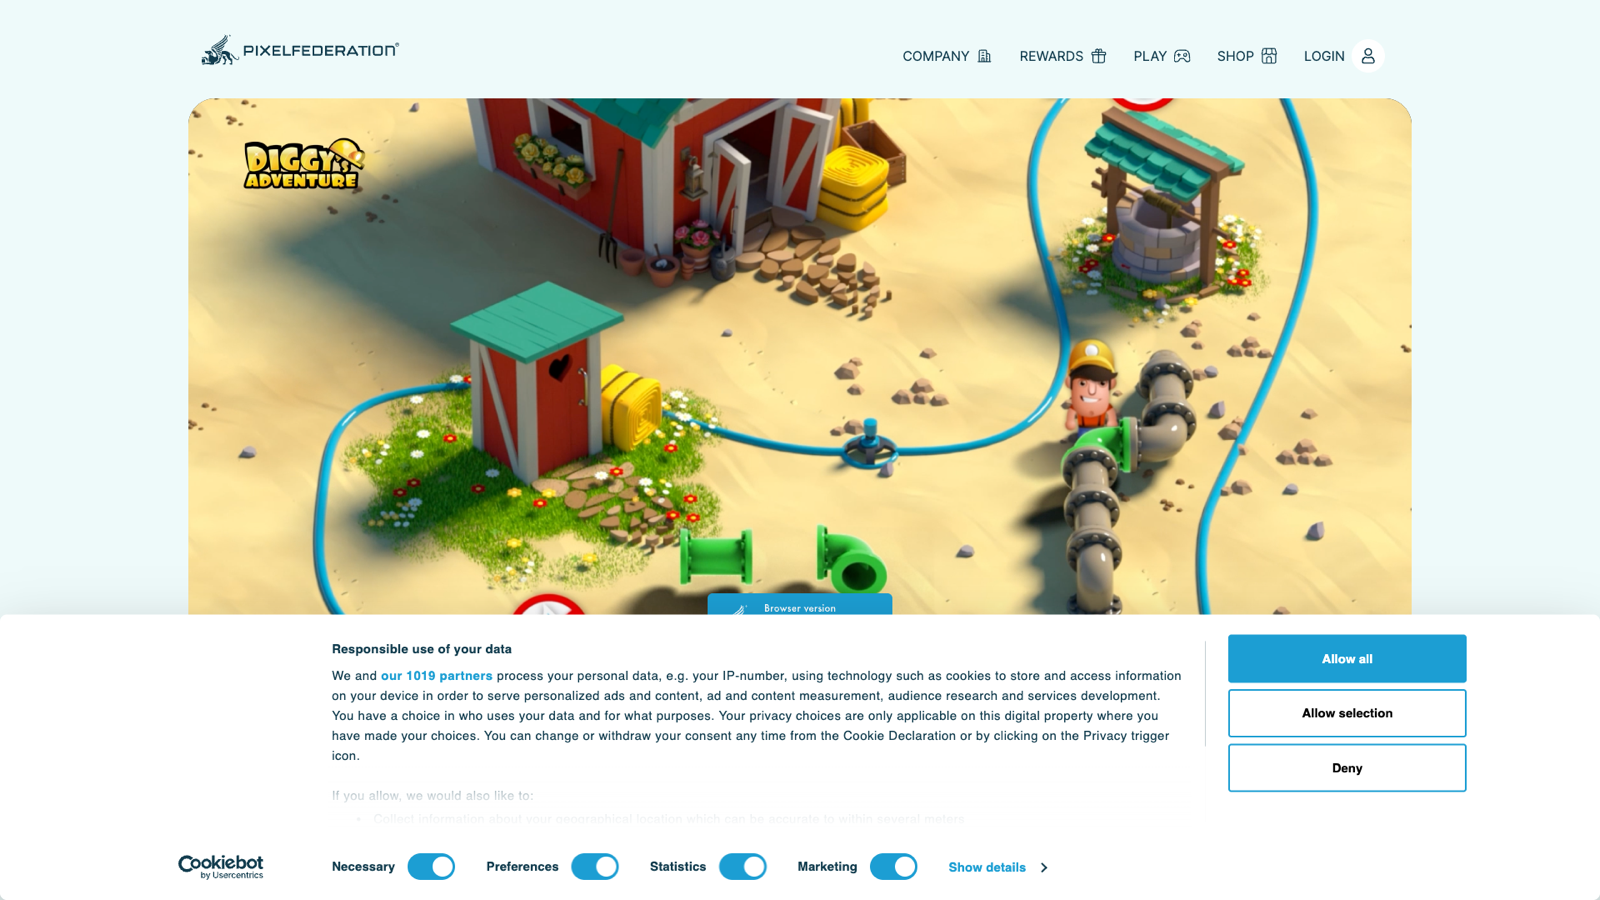
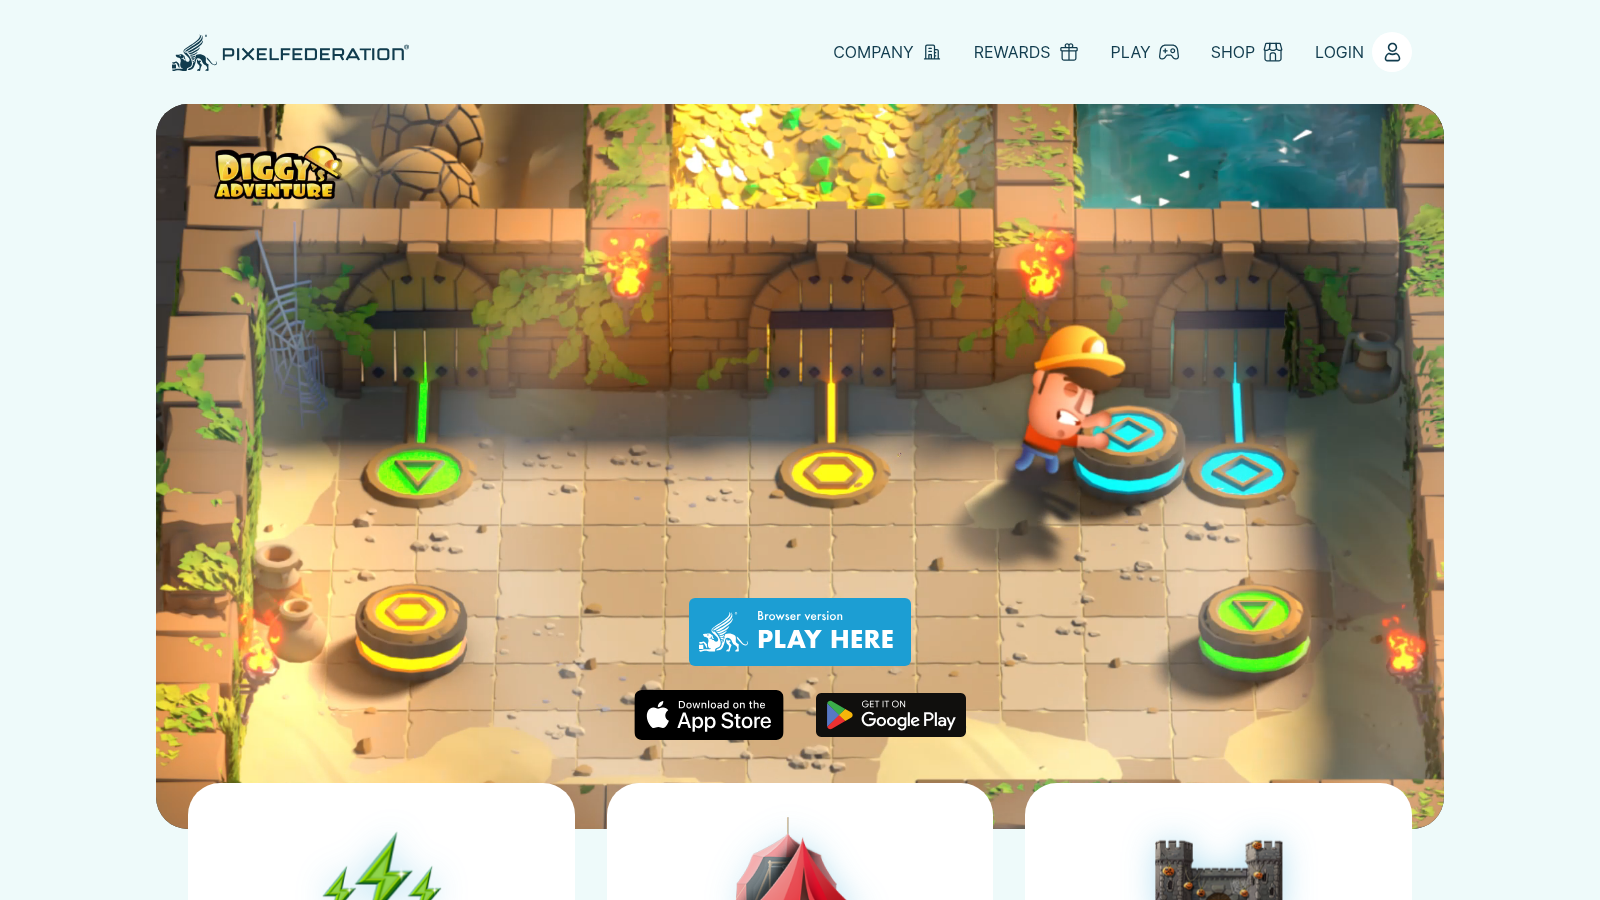
Remove cookie overlays from remaining covers
- reshoot Diggy's Adventure, TrainStation, Innovatrics and Websupport covers
- block cookie and chat scripts before capture
- add cover capture rules to skills/08_cover_capture.md

diff --git a/skills/08_cover_capture.md b/skills/08_cover_capture.md
@@ -1,0 +1,52 @@
+# 08 - Capture coverov
+
+Platí pre každý nový alebo opravovaný cover, ktorý vzniká ako screenshot webu.
+
+## Základ
+
+- Rozmer: **1600×900**, pomer 16:9, device scale factor 1.
+- Formát: PNG (alebo JPG pri fotografii), bez zbytočnej kompresie.
+- Snímaj až po načítaní obsahu, nie hneď po `domcontentloaded`.
+
+## Pred snímkou vždy odstráň overlaye
+
+Nikdy necommituj cover s cookie lištou, newsletter modalom, chatom alebo iným popupom.
+
+Poradie zásahov:
+
+1. **Blokuj známe skripty** cez request interception:
+   `cookiebot`, `iubenda`, `usercentrics`, `onetrust`, `cookieyes`,
+   `smartsupp`, `livechat`, `crisp`, `tawk`, `intercom`, `drift`.
+2. **Klikni consent**, ak lišta aj tak vznikne:
+   `Allow all`, `Accept all`, `Prijať všetky`, `Súhlasím`, `Povoliť všetko`.
+   Pri iubende pomáha priamy JS click na `.iubenda-cs-accept-btn`.
+3. **Skry fixed overlaye**, ktoré ostali: prvky s textom
+   `cookies`, `súbory cookie`, `privacy`, `súhlas`, `newsletter`.
+4. **Skry malé fixed widgety** v rohoch (accessibility, chat launcher, cookie settings).
+5. Ak overlay nejde odstrániť, použijeme iný zdroj alebo produktovú podstránku — nie generatívne domýšľanie UI.
+
+## Čo nikdy nerobiť
+
+- Negenerovať chýbajúce UI prvky ani text pomocou image modelu.
+- Neupravovať text, čísla ani logá na screenshote.
+- Nepoužívať cover, na ktorom je viditeľná cookie lišta alebo modal.
+
+## Kontrola pred commitom
+
+```bash
+# rozmery všetkých coverov
+python3 - <<'PY'
+from PIL import Image
+import os, json
+for f in sorted(os.listdir("src/content/projects")):
+    if not f.endswith(".json"): continue
+    j = json.load(open("src/content/projects/" + f))
+    if j.get("cover"):
+        print(f, Image.open("public" + j["cover"]).size)
+PY
+
+# OCR kontrola cookie textov
+tesseract public/projects/<cover>.png - | grep -iE "cookie|súhlas|privacy|newsletter"
+```
+
+Ak OCR nájde cookie alebo privacy text, cover sa nesmie commitnúť.
